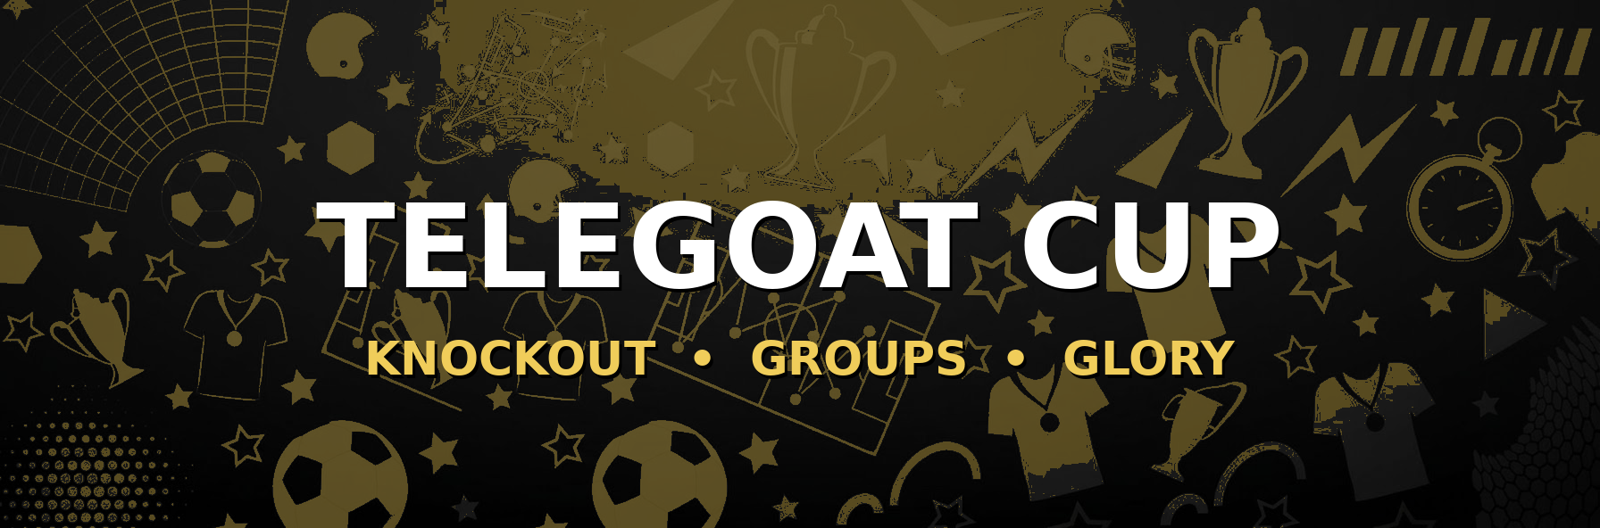
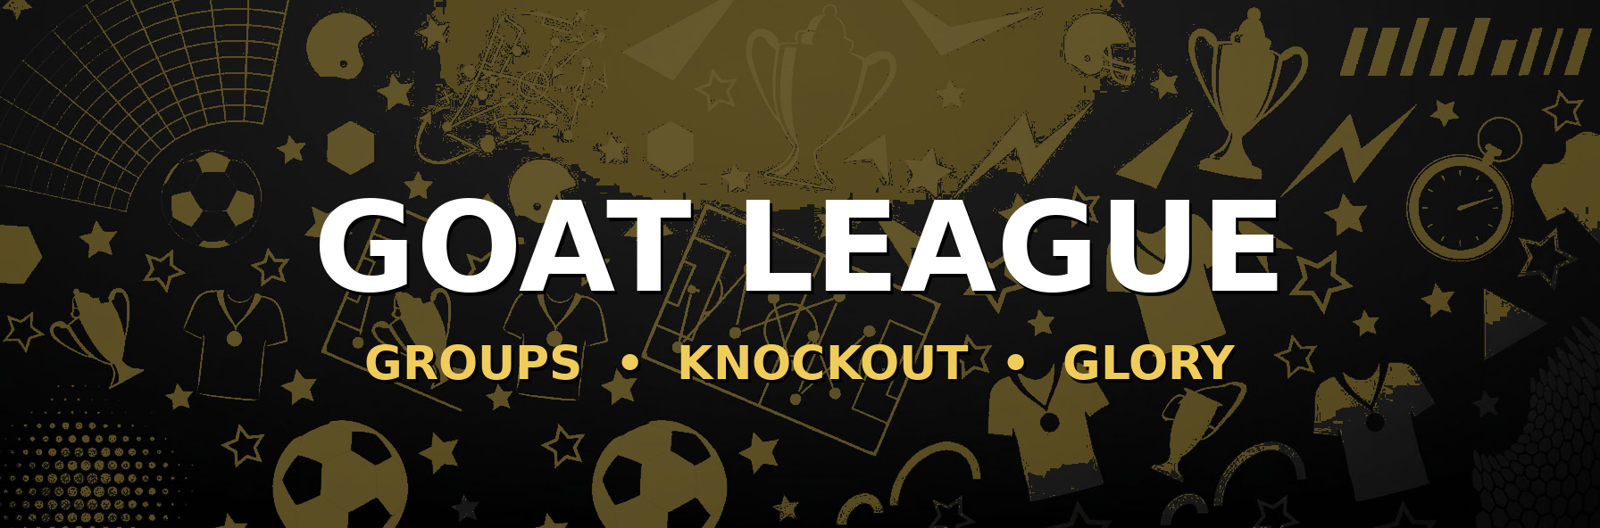
Splash: black+purple geometric; cup renamed GOAT LEAGUE; draw title/group order fixes
Claude-Session: https://claude.ai/code/session_012PfyAnPu9w4v4HNg9w8awS

Changed region(s): [[0.1875, 0.3636, 0.8125, 0.5758], [0.2188, 0.6364, 0.7812, 0.7273]]

diff --git a/splash.css b/splash.css
@@ -539,3 +539,41 @@ body.splash-active {
 }
 .splash-logo-glow { background: radial-gradient(circle, rgba(255,255,255,.22) 0%, rgba(233,0,82,.12) 40%, transparent 65%); }
 .splash-sub { color: rgba(255,255,255,.7); }
+
+/* ===== v4: أسود على بنفسجي + هندسة مرتبة ===== */
+.splash-screen { background: #050508; }
+.splash-bg {
+    background:
+        radial-gradient(circle at 50% calc(50% - 62px), rgba(124,58,237,.38) 0%, rgba(76,29,149,.18) 32%, transparent 62%),
+        #050508;
+}
+.splash-bg::before, .splash-bg::after { display: none; }
+.splash-grid, .splash-corner, .splash-rings, .splash-hex { display: block !important; }
+.splash-lines { display: none !important; }
+.splash-grid { background-image:
+    linear-gradient(rgba(167,139,250,.10) 1px, transparent 1px),
+    linear-gradient(90deg, rgba(167,139,250,.10) 1px, transparent 1px); background-size: 36px 36px; }
+.splash-corner { border-color: #A78BFA; box-shadow: none; border-radius: 0 !important; width: 34px; height: 34px; border-width: 2px; }
+/* كل الأشكال متمركزة على الأسد ولا تدور — تظهر بترتيب */
+.splash-rings { align-items: flex-start; }
+.splash-ring, .splash-hex { top: calc(50% - 62px) !important; }
+.splash-ring.r1 { width: 150px; height: 150px; border: 1.5px solid #A78BFA; box-shadow: none;
+    animation: sp-ring-in .6s .5s ease forwards !important; }
+.splash-ring.r2 { width: 240px; height: 240px; border: 1px solid rgba(167,139,250,.65);
+    animation: sp-ring-in .6s .8s ease forwards !important; }
+.splash-ring.r3 { width: 330px; height: 330px; border: 1px dashed rgba(167,139,250,.4);
+    animation: sp-ring-in .6s 1.1s ease forwards !important; }
+.splash-ring.r4 { width: 430px; height: 430px; border: 1px solid rgba(167,139,250,.18);
+    animation: sp-ring-in .6s 1.4s ease forwards, sp-ring-pulse 1.2s 2.2s ease-out !important; }
+@keyframes sp-ring-pulse { 0%,100% { box-shadow: 0 0 0 rgba(167,139,250,0); } 40% { box-shadow: 0 0 40px rgba(167,139,250,.5); border-color: #A78BFA; } }
+.splash-hex { width: 290px; height: 290px; animation: sp-fade .5s .9s ease forwards !important; transform: translate(-50%, -50%) !important; }
+.splash-hex polygon { stroke: rgba(167,139,250,.55); stroke-width: 1; filter: none;
+    animation: sp-hex-draw 1.2s .9s ease forwards; }
+/* خطوط المحاور */
+.splash-bg::before, .splash-bg::after { display: block; content: ''; position: absolute; opacity: 0; background: linear-gradient(90deg, transparent, rgba(167,139,250,.55) 50%, transparent); border: 0; border-radius: 0; margin: 0; }
+.splash-bg::before { left: 0; right: 0; top: calc(50% - 62px); height: 1px; width: auto; transform: scaleX(0); transform-origin: center; animation: sp-axis-x 1s .3s ease forwards; }
+.splash-bg::after { top: 0; bottom: 0; left: 50%; width: 1px; height: auto; background: linear-gradient(180deg, transparent, rgba(167,139,250,.55) 50%, transparent); transform: scaleY(0); animation: sp-axis-y 1s .4s ease forwards; }
+@keyframes sp-axis-x { to { opacity: 1; transform: scaleX(1); } }
+@keyframes sp-axis-y { to { opacity: 1; transform: scaleY(1); } }
+.splash-logo-wrap .sp-svg { filter: drop-shadow(0 0 10px rgba(167,139,250,.7)) drop-shadow(0 0 26px rgba(124,58,237,.5)); }
+.splash-logo-glow { background: radial-gradient(circle, rgba(167,139,250,.28) 0%, rgba(124,58,237,.1) 40%, transparent 65%); }

diff --git a/champions-draw.js b/champions-draw.js
@@ -542,7 +542,7 @@ function champBuildDrawScreen(pots) {
     html += '<div class="champ-preloader" id="champPreloader">';
     html += '<div class="champ-preloader-logo">';
     html += '<div class="champ-preloader-ring"></div>';
-    html += '<div class="champ-preloader-text">FINALISSIMA</div>';
+    html += '<div class="champ-preloader-text">GOAT LEAGUE</div>';
     html += '</div>';
     html += '<div class="champ-preloader-bar"><div class="champ-preloader-fill" id="champPreloaderFill"></div></div>';
     html += '<div class="champ-preloader-status" id="champPreloaderStatus">جاري التحضير...</div>';
@@ -563,10 +563,10 @@ function champBuildDrawScreen(pots) {
     html += '<div class="champ-draw-title-wrap">';
     html += '<div class="champ-draw-title" id="champDrawTitle">';
     html += '<span class="champ-title-deco"></span>';
-    html += '<span>قرعة الأبطال</span>';
+    html += '<span>GOAT LEAGUE</span>';
     html += '<span class="champ-title-deco"></span>';
     html += '</div>';
-    html += '<div class="champ-draw-subtitle">FINALISSIMA · CHAMPIONS 2026</div>';
+    html += '<div class="champ-draw-subtitle">THE DRAW · 2026</div>';
     html += '</div>';
     html += '<div class="champ-draw-spacer"></div>';
     html += '</div>';
@@ -762,7 +762,7 @@ async function champStageIntro() {
 
     overlay.style.display = 'flex';
 
-    textEl.innerHTML = '<div class="champ-intro-line">CHAMPIONS</div>';
+    textEl.innerHTML = '<div class="champ-intro-line">GOAT</div>';
     const line1 = textEl.querySelector('.champ-intro-line');
     gsap.set(line1, { opacity: 0, y: 120, scale: 0.5, filter: 'blur(30px)' });
 
@@ -809,7 +809,7 @@ async function champStageIntro() {
     await champWait(900);
 
     textEl.innerHTML =
-        '<div class="champ-intro-subline">FINALISSIMA</div>' +
+        '<div class="champ-intro-subline">LEAGUE</div>' +
         '<div class="champ-intro-year">2026</div>';
     const subline = textEl.querySelector('.champ-intro-subline');
     const year = textEl.querySelector('.champ-intro-year');

diff --git a/index.html b/index.html
@@ -815,12 +815,12 @@ tr.pos-20{background:linear-gradient(90deg, rgba(239,68,68,0.30) 0%, rgba(239,68
 <link rel="stylesheet" href="manager-hub.css?v=20261018">
 <link rel="stylesheet" href="theme.css?v=20261109">
 <link rel="stylesheet" href="charts.css?v=20261018">
-<link rel="stylesheet" href="splash.css?v=20261112">
+<link rel="stylesheet" href="splash.css?v=20261113">
 <link rel="stylesheet" href="compare.css?v=20261018">
 <link rel="stylesheet" href="champions-cup.css?v=20261018">
 <link rel="stylesheet" href="pitch-fpl.css?v=1">
 <link rel="stylesheet" href="champions.css?v=1">
-<link rel="stylesheet" href="champions-draw.css?v=1">
+<link rel="stylesheet" href="champions-draw.css?v=2">
 <link rel="stylesheet" href="champions-captains.css?v=1">
 <link rel="stylesheet" href="champions-special.css?v=1">
 
@@ -1298,7 +1298,7 @@ tr.pos-20{background:linear-gradient(90deg, rgba(239,68,68,0.30) 0%, rgba(239,68
 <script src="main.js?v=5"></script>
 <script src="champions-cup.js?v=30"></script>
 <script src="champions.js?v=1"></script>
-<script src="champions-draw.js?v=1"></script>
+<script src="champions-draw.js?v=2"></script>
 <script src="champions-captains.js?v=1"></script>
 <script src="champions-special.js?v=1"></script>
 <script src="cup-adapter.js?v=1"></script>

diff --git a/carousel.js b/carousel.js
@@ -9,7 +9,7 @@ const carouselSlides = [
     { image: './banner3.png',     tab: 'totw',       alt: 'TOTW' },
     { image: './banner4.png.PNG', tab: 'stats',      alt: 'STATISTICS' },
     { image: './banner5.png',     tab: 'champions',  alt: 'CHAMPIONS CUP' },
-    { image: './banner6.png',     tab: 'cup',        alt: 'TELEGOAT CUP' }
+    { image: './banner6.png',     tab: 'cup',        alt: 'GOAT LEAGUE' }
 ];
 
 let carouselIndex = 0;

diff --git a/champions-draw.css b/champions-draw.css
@@ -1707,3 +1707,7 @@ body.champ-draw-open{
     user-select:none;
     pointer-events:none;
 }
+
+/* ترتيب A→D من اليسار لليمين */
+.champ-groups-stage,.champ-pot-teams{direction:ltr;}
+.champ-draw-title{direction:ltr !important;letter-spacing:3px;}

diff --git a/fixtures.js b/fixtures.js
@@ -65,7 +65,7 @@ function switchTab(tabName) {
         }
 
         if (tabName === 'cup' && isLocked('champions')) {
-            showSectionMaintenance('Telegoat Cup');
+            showSectionMaintenance('GOAT LEAGUE');
             return;
         }
 
